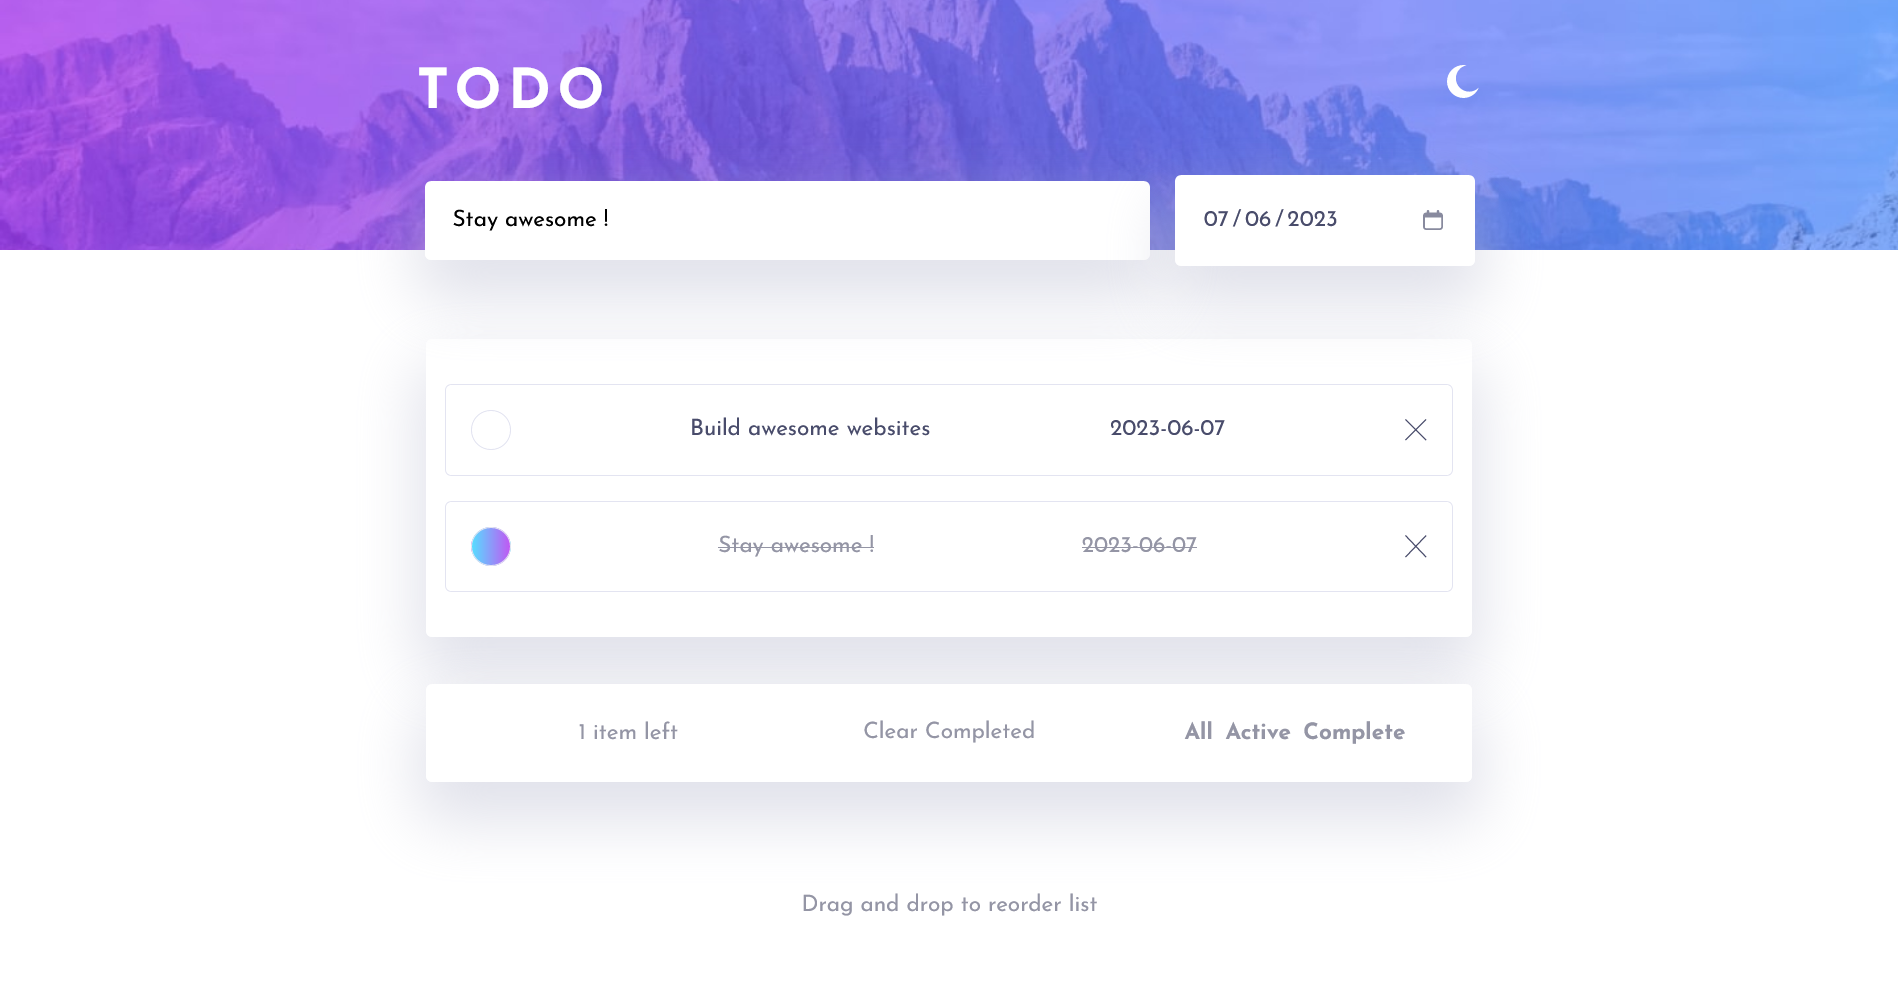
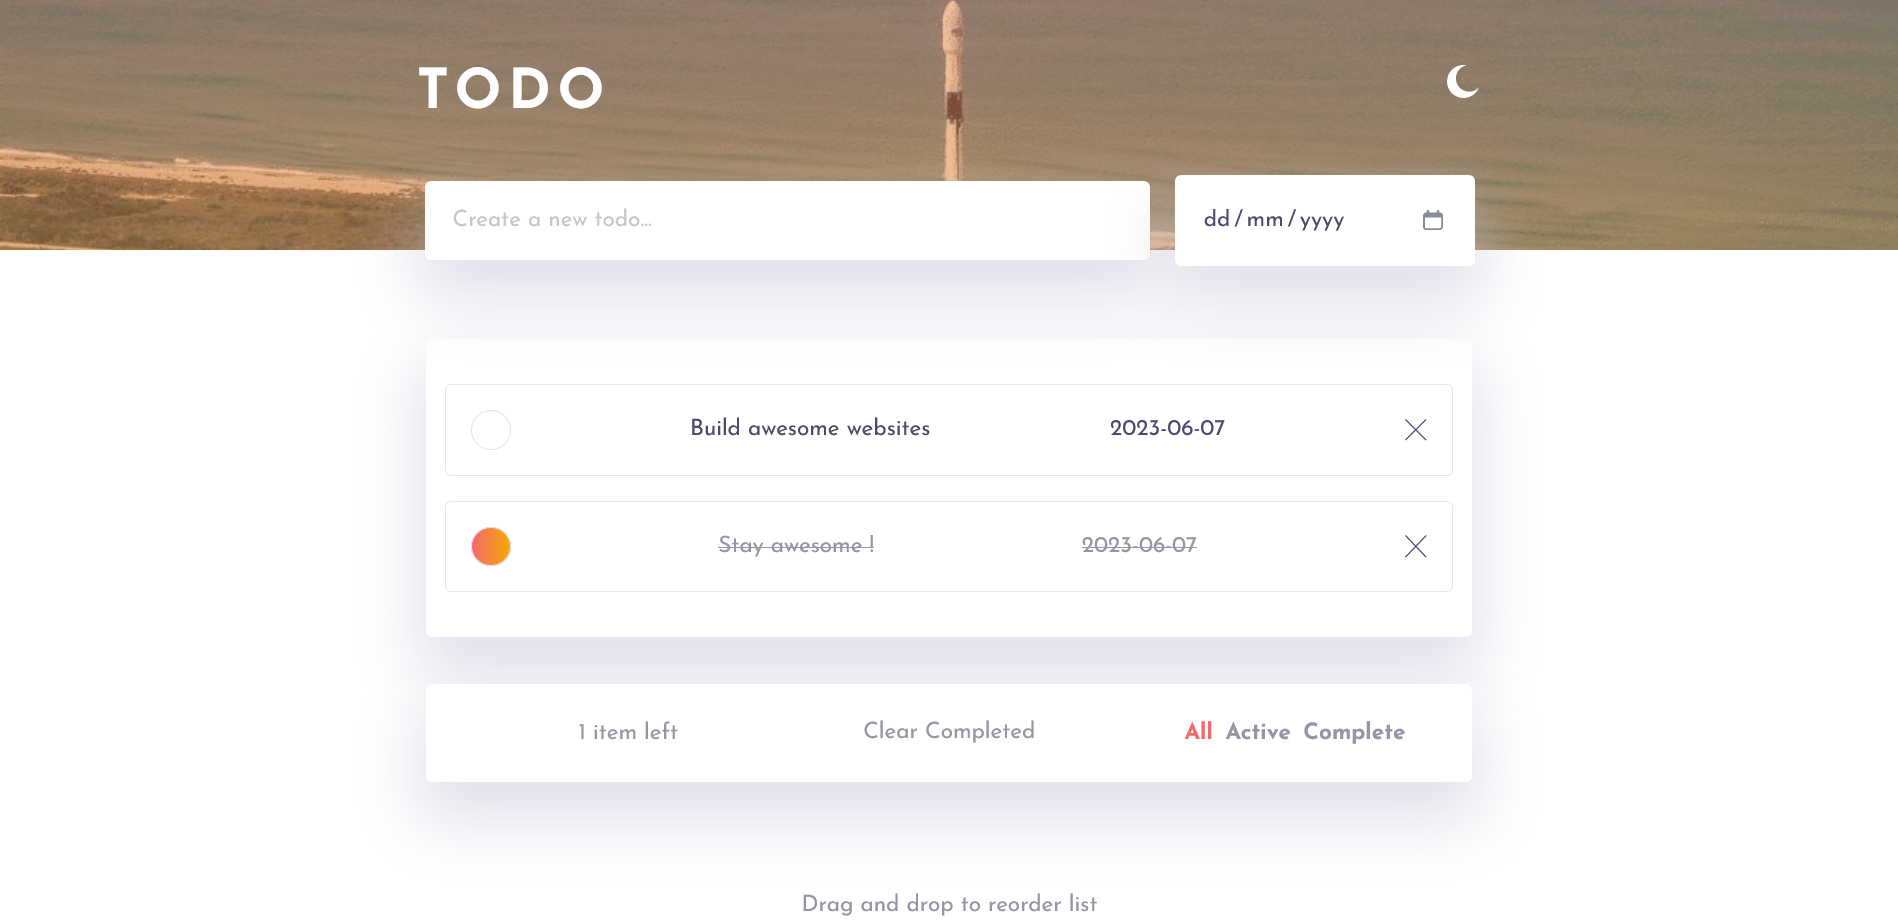
update colors and bg images

diff --git a/css/style.css b/css/style.css
@@ -39,7 +39,7 @@ a:hover {
 }
 
 header {
-  background-image: url("../images/bg-mobile-light.jpg");
+  background-image: url("../images/bg-light.png");
   background-position: center;
   background-size: cover;
   height: 170px;
@@ -120,12 +120,7 @@ header {
 }
 
 .form__check:checked + label {
-  background: linear-gradient(
-    to right,
-    hsl(192, 100%, 67%),
-    hsl(280, 87%, 65%)
-  );
-  /* border: 2px solid var(--border-color); */
+  background: linear-gradient(to right, hsl(358, 85%, 68%), hsl(41, 98%, 49%));
 }
 
 .form__input {
@@ -178,7 +173,7 @@ header {
 
 .list__item.dragging {
   opacity: 0.75;
-  background-color: #3a7cfd;
+  background-color: #f3696e;
 }
 
 .list__cancel:hover {
@@ -224,7 +219,6 @@ header {
 .list__task.completed,
 .due-date.completed {
   text-decoration: line-through;
-  transition: text-decoration 4s ease;
   color: var(--link-color);
 }
 
@@ -256,7 +250,7 @@ header {
 }
 
 .active-link {
-  color: #3a7cfd;
+  color: #f3696e;
 }
 
 footer {
@@ -279,7 +273,7 @@ body.dark-mode {
 }
 
 body.dark-mode header {
-  background-image: url("../images/bg-mobile-dark.jpg");
+  background-image: url("../images/bg-dark.png");
 }
 
 body.dark-mode .header__toggle-icon {
@@ -307,11 +301,11 @@ body.dark-mode .form__input,
 
 @media screen and (min-width: 1440px) {
   body.dark-mode header {
-    background-image: url("../images/bg-desktop-dark.jpg");
+    /* background-image: url("../images/bg-desktop-dark.png"); */
   }
 
   header {
-    background-image: url("../images/bg-desktop-light.jpg");
+    /* background-image: url("../images/bg-desktop-light.png"); */
     height: 200px;
   }
 

diff --git a/js/localStorage.js b/js/localStorage.js
@@ -8,12 +8,14 @@ const getTodoListFromLocalStorage = () => {
   const storedTodoList = localStorage.getItem("todoList");
   if (storedTodoList) {
     const parsedList = JSON.parse(storedTodoList);
+    console.log(parsedList);
     return parsedList.map((item) => {
       const newItem = createItem(item.title, item.dueDate);
       newItem.isCompleted = item.isCompleted;
-      newItem.toggleCompletion = function () {
-        this.isCompleted = !this.isCompleted;
-      };
+      // newItem.toggleCompletion = function () {
+      //   this.isCompleted = !this.isCompleted;
+      // };
+      newItem.toggleCompletion = createItem().toggleCompletion;
       return newItem;
     });
   }

diff --git a/js/app.js b/js/app.js
@@ -18,11 +18,14 @@ const createItem = (title, dueDate) => {
     title,
     dueDate,
     isCompleted: false,
+    toggleCompletion: function () {
+      this.isCompleted = !this.isCompleted;
+    },
   };
 
-  item.toggleCompletion = function () {
-    this.isCompleted = !this.isCompleted;
-  };
+  // item.toggleCompletion = function () {
+  //   this.isCompleted = !this.isCompleted;
+  // };
 
   return item;
 };
